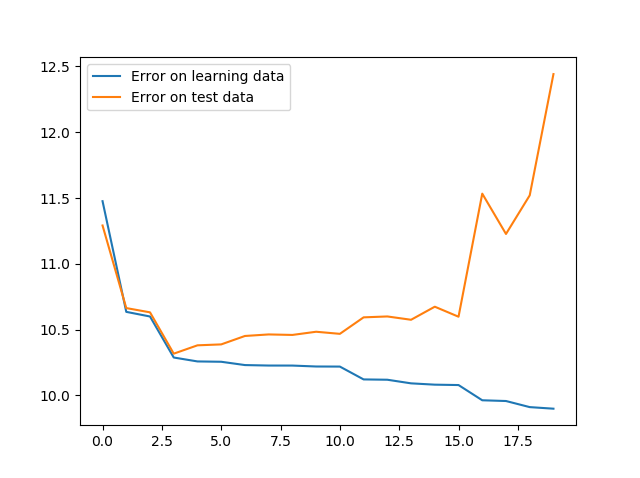
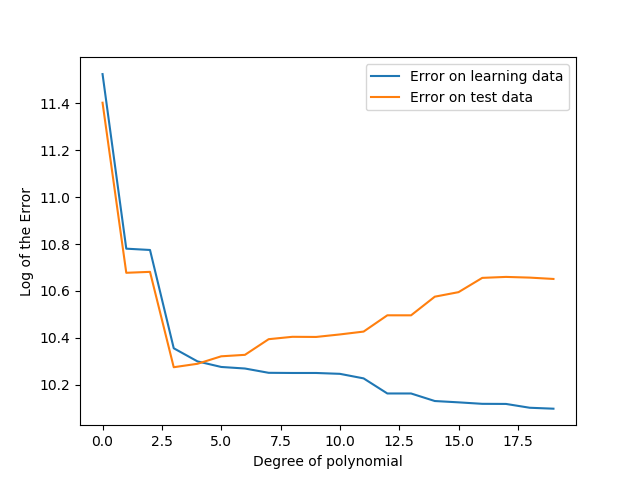
TD: scripts and img for ex 1

diff --git a/HW_3/src/ex1.py b/HW_3/src/ex1.py
@@ -86,6 +86,8 @@ def main():
     plt.plot(np.log(error_r))
     plt.plot(np.log(error_test_r))
     plt.legend(['Error on learning data', 'Error on test data'])
+    plt.xlabel('Degree of polynomial')
+    plt.ylabel('Log of the Error')
     plt.show()
 
     plot_poly(w_l[0])
